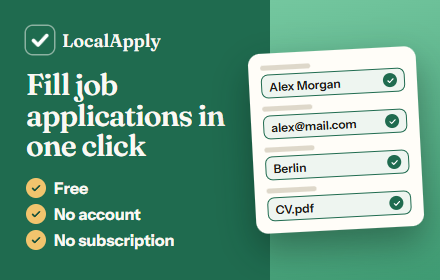
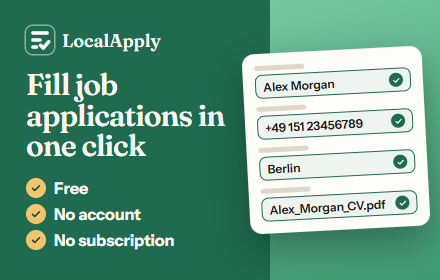
Chrome screenshots as slides; promo tile demo data matches them
Chrome shows no captions under screenshots, so its set is now five slides on
the brand green, each with one headline and the real UI cropped and
enlarged: filling in one click, free and private, saved answers, eight
languages, the profile and the application log. They share one grid and are
rendered from the same captures as the Firefox set, plus the job forms
before filling. Firefox keeps the plain, text-free screenshots in
store/screenshots/; Chrome's are in store/chrome/screenshots/.

The promo tile's form now shows the same phone number and CV file name as
the screenshots, in a slightly wider card so the file name fits.

diff --git a/store/README.md b/store/README.md
@@ -6,7 +6,7 @@ Every text exists in the eight interface languages: `<l>` is `en`, `de`, `fr`, `
 
 ```
 store/
-  screenshots/               1280×800 PNGs, used by both stores (generated)
+  screenshots/               1280×800 PNGs without text, for Firefox (generated)
   firefox/
     description.<l>.md       description, ready to paste (Firefox supports a limited Markdown)
     summary.<l>.txt          summary, ready to paste (≤ 250 characters)
@@ -18,18 +18,24 @@ store/
     listing.en.md            category, images and other form fields
     listing.<l>.md           notes on each other language's listing
     privacy-practices.md     answers for the Privacy practices tab: single purpose, permissions, data use
+    screenshots/             1280×800 slides with headlines, for Chrome (generated)
     icon-128.png             store icon, 96 px artwork with 16 px padding (generated)
     promo-tile-440x280.png   small promo tile, required by Chrome (generated)
 ```
 
 ## Regenerating the images
 
-| Command                | Produces                                                                     |
-| ---------------------- | ---------------------------------------------------------------------------- |
-| `npm run store-assets` | `screenshots/*.png` and `chrome/promo-tile-440x280.png` from the built UI    |
-| `npm run icons`        | `public/icon/*.png` (in the extension) and `chrome/icon-128.png` (the store) |
+| Command                | Produces                                                                                              |
+| ---------------------- | ----------------------------------------------------------------------------------------------------- |
+| `npm run store-assets` | `screenshots/*.png`, `chrome/screenshots/*.png` and `chrome/promo-tile-440x280.png` from the built UI |
+| `npm run icons`        | `public/icon/*.png` (in the extension) and `chrome/icon-128.png` (the store)                          |
 
-The screenshots show the real extension at its real size, in a plain browser frame with the popup under its toolbar button, filling fictional job pages for a made-up person (Alex Morgan). They contain no marketing text, as Mozilla recommends; the captions in `firefox/listing.*.md` carry the story. Regenerate them whenever the popup, the profile page or the in-page highlights change. The first run needs `npx playwright install chromium`.
+All images show the real extension filling fictional job pages for a made-up person (Alex Morgan). The two stores get different screenshots:
+
+- **Firefox** (`screenshots/`): the extension at its real size, in a plain browser frame with the popup under its toolbar button. No marketing text, as Mozilla recommends because one set is shown in every language; the captions in `firefox/listing.*.md` carry the story.
+- **Chrome** (`chrome/screenshots/`): Chrome shows no captions, so each screenshot is a slide on the brand green with one headline and the real UI cropped and enlarged: filling in one click, free and private, saved answers, eight languages, the profile and the application log. The headlines are English and their claims match `chrome/description.en.txt`; change both together.
+
+Regenerate them whenever the popup, the profile page or the in-page highlights change. The first run needs `npx playwright install chromium`.
 
 ## Where each piece goes
 
@@ -56,7 +62,7 @@ The screenshots show the real extension at its real size, in a plain browser fra
 | Description                           | `chrome/description.<l>.txt` (one per language in the language menu)                                            |
 | Category                              | `chrome/listing.en.md`                                                                                          |
 | Store icon                            | `chrome/icon-128.png`                                                                                           |
-| Screenshots                           | `screenshots/` (up to 5)                                                                                        |
+| Screenshots                           | `chrome/screenshots/` (up to 5)                                                                                 |
 | Small promo tile                      | `chrome/promo-tile-440x280.png`                                                                                 |
 | Privacy practices, privacy policy URL | `chrome/privacy-practices.md` (policy: `PRIVACY.md` in the repository root)                                     |
 

diff --git a/store/chrome/listing.en.md b/store/chrome/listing.en.md
@@ -17,14 +17,14 @@ In [`description.en.txt`](description.en.txt), ready to paste as-is.
 
 ## Other fields
 
-| Field                                | Value                                                   |
-| ------------------------------------ | ------------------------------------------------------- |
-| Category                             | Productivity → Workflow & Planning                      |
-| Language                             | English                                                 |
-| Store icon                           | `icon-128.png`                                          |
-| Screenshots                          | `../screenshots/` 1 to 5 (1280×800), in file-name order |
-| Small promo tile                     | `promo-tile-440x280.png`                                |
-| Marquee promo tile                   | Optional (1400×560); not provided                       |
-| Official / homepage URL, support URL | Optional; your project page if you have one             |
+| Field                                | Value                                                |
+| ------------------------------------ | ---------------------------------------------------- |
+| Category                             | Productivity → Workflow & Planning                   |
+| Language                             | English                                              |
+| Store icon                           | `icon-128.png`                                       |
+| Screenshots                          | `screenshots/` 1 to 5 (1280×800), in file-name order |
+| Small promo tile                     | `promo-tile-440x280.png`                             |
+| Marquee promo tile                   | Optional (1400×560); not provided                    |
+| Official / homepage URL, support URL | Optional; your project page if you have one          |
 
-Chrome shows no per-screenshot captions, and the screenshots carry no text, so the description does the explaining.
+Chrome shows no per-screenshot captions, so each screenshot is a slide with its own headline; the description explains the rest.
